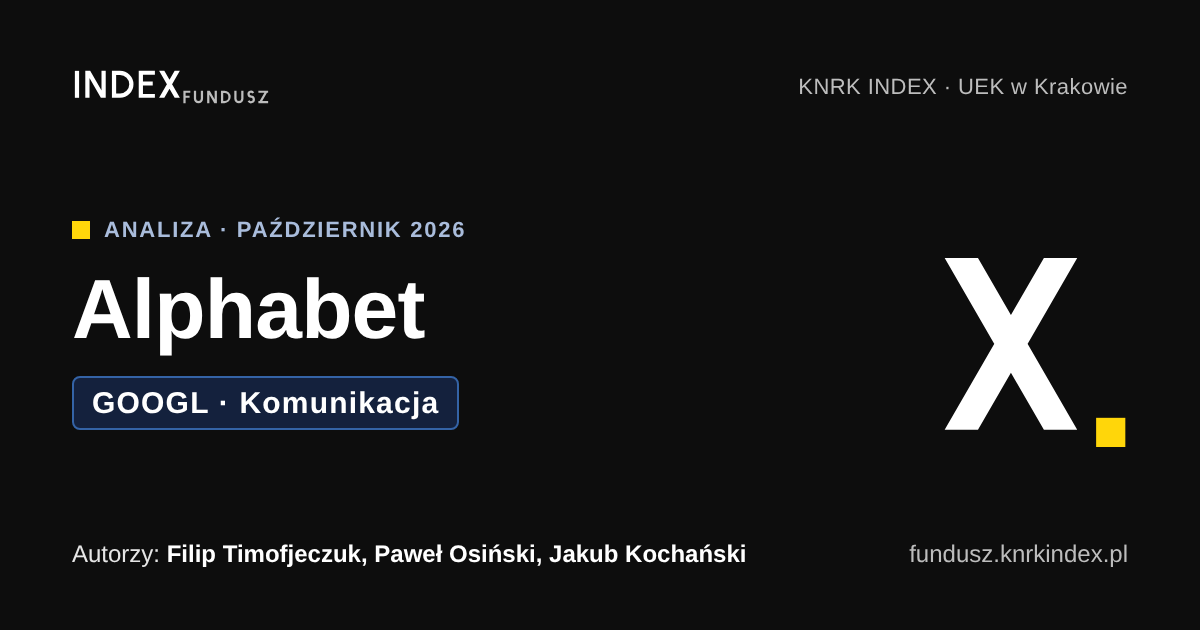
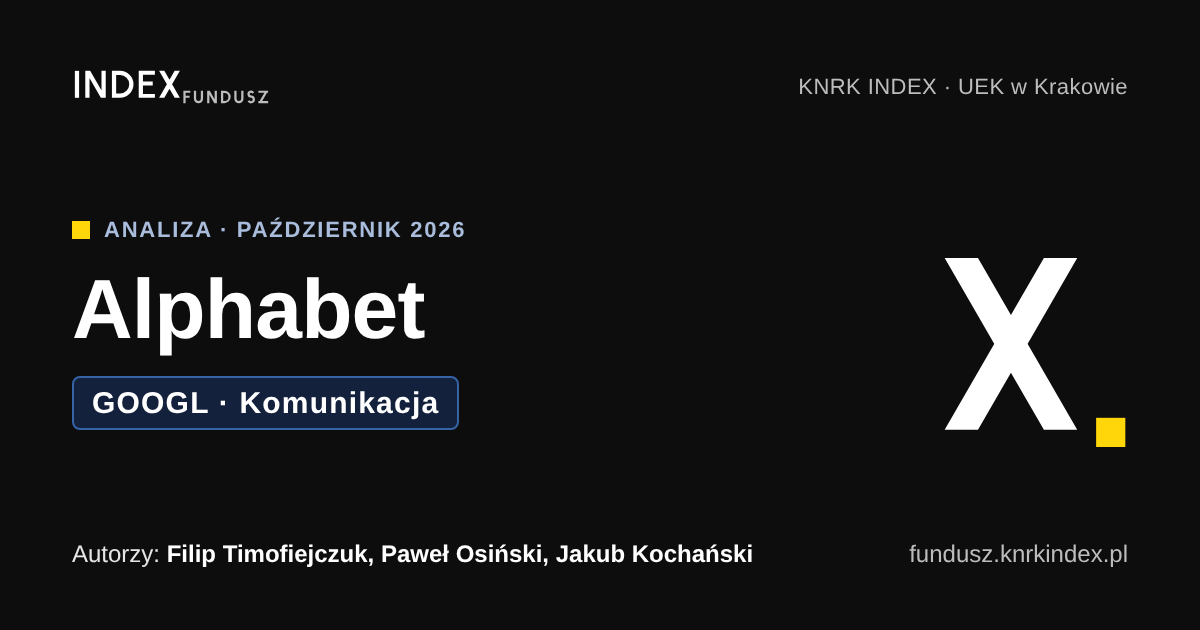
Poprawka nazwiska: Filip Timofiejczuk
Claude-Session: https://claude.ai/code/session_01GJk3onLjiow6J3TLgBbiHk

Changed region(s): [[0.2467, 0.8444, 0.6475, 0.9048]]

diff --git a/o-funduszu.html b/o-funduszu.html
@@ -94,7 +94,7 @@
 <div class="person"><span class="avatar" aria-hidden="true">MB</span><b class="small">Mikołaj Bujacz</b></div>
 <div class="person"><span class="avatar" aria-hidden="true">PO</span><b class="small">Paweł Osiński</b></div></div></div></div>
 <div class="org-team"><span class="vline" aria-hidden="true" style="height:24px"></span><div class="card"><span class="label">LinkedIn i media</span><div class="people">
-<div class="person"><span class="avatar" aria-hidden="true">FT</span><b class="small">Filip Timofjeczuk</b></div></div></div></div>
+<div class="person"><span class="avatar" aria-hidden="true">FT</span><b class="small">Filip Timofiejczuk</b></div></div></div></div>
 </div>
 </div></div>
 </section>
@@ -108,7 +108,7 @@
 <li class="person"><span class="avatar" aria-hidden="true">MB</span><b class="small">Mikołaj Bujacz</b><span class="tiny muted">Energia, ropa i gaz</span></li>
 <li class="person"><span class="avatar" aria-hidden="true">HK</span><b class="small">Hubert Kamiński</b><span class="tiny muted">Energia, ropa i gaz</span></li>
 <li class="person"><span class="avatar" aria-hidden="true">KZ</span><b class="small">Kacper Ziętek</b><span class="tiny muted">Energia, ropa i gaz</span></li>
-<li class="person"><span class="avatar" aria-hidden="true">FT</span><b class="small">Filip Timofjeczuk</b><span class="tiny muted">Komunikacja, usługi internetowe</span></li>
+<li class="person"><span class="avatar" aria-hidden="true">FT</span><b class="small">Filip Timofiejczuk</b><span class="tiny muted">Komunikacja, usługi internetowe</span></li>
 <li class="person"><span class="avatar" aria-hidden="true">PO</span><b class="small">Paweł Osiński</b><span class="tiny muted">Komunikacja, usługi internetowe</span></li>
 <li class="person"><span class="avatar" aria-hidden="true">JK</span><b class="small">Jakub Kochański</b><span class="tiny muted">Komunikacja, usługi internetowe</span></li>
 <li class="person"><span class="avatar" aria-hidden="true">MB</span><b class="small">Michał Bożek</b><span class="tiny muted">Przemysł, instalacje</span></li>

diff --git a/index.html b/index.html
@@ -97,7 +97,7 @@
 <div class="section-head"><h2>Ostatnie analizy</h2><a href="analizy.html" style="font-weight:700;padding:10px 0">Wszystkie analizy</a></div>
 <div class="grid-auto">
 <a class="card card-link" href="analizy/wmb.html"><span class="tiny muted">Energia · październik 2026 · w portfelu</span><strong style="font-size:18px">Williams Companies (WMB)</strong><span class="small" style="color:var(--ink-2)">Szymon Jakubowski, Wojciech Łopatecki, Mikołaj Małek</span></a>
-<a class="card card-link" href="analizy/googl.html"><span class="tiny muted">Komunikacja · październik 2026 · w portfelu</span><strong style="font-size:18px">Alphabet (GOOGL)</strong><span class="small" style="color:var(--ink-2)">Filip Timofjeczuk, Paweł Osiński, Jakub Kochański</span></a>
+<a class="card card-link" href="analizy/googl.html"><span class="tiny muted">Komunikacja · październik 2026 · w portfelu</span><strong style="font-size:18px">Alphabet (GOOGL)</strong><span class="small" style="color:var(--ink-2)">Filip Timofiejczuk, Paweł Osiński, Jakub Kochański</span></a>
 <a class="card card-link" href="analizy/cvx.html"><span class="tiny muted">Energia · październik 2026 · w portfelu</span><strong style="font-size:18px">Chevron (CVX)</strong><span class="small" style="color:var(--ink-2)">Mikołaj Bujacz, Hubert Kamiński, Kacper Ziętek</span></a>
 <a class="card card-link" href="analizy/eme.html"><span class="tiny muted">Przemysł · październik 2026 · w portfelu</span><strong style="font-size:18px">EMCOR (EME)</strong><span class="small" style="color:var(--ink-2)">Michał Bożek, Krzysztof Paś</span></a>
 <a class="card card-link" href="analizy/amd.html"><span class="tiny muted">Technologia · październik 2026 · w portfelu</span><strong style="font-size:18px">Advanced Micro Devices (AMD)</strong><span class="small" style="color:var(--ink-2)">Radosław Bobeł, Mikołaj Madejczyk</span></a>

diff --git a/analizy/googl.html b/analizy/googl.html
@@ -58,7 +58,7 @@
 <div class="side card" style="padding:0;overflow:hidden;gap:0">
 <div class="panel" style="border-radius:0;padding:16px 20px"><span class="label" style="color:var(--inv-muted)">Metryczka analizy</span></div>
 <dl class="kv" style="padding:4px 20px 12px">
-<dt>Autorzy</dt><dd>Filip Timofjeczuk, Paweł Osiński, Jakub Kochański</dd>
+<dt>Autorzy</dt><dd>Filip Timofiejczuk, Paweł Osiński, Jakub Kochański</dd>
 <dt>Data</dt><dd>październik 2026</dd>
 <dt>Kursy z dnia</dt><dd>16.10.2026</dd>
 <dt>Metody</dt><dd>DCF, porównawcza</dd>
@@ -106,7 +106,7 @@
 <section id="ujawnienia" class="section small" aria-label="Ujawnienia" style="border-top:1px solid var(--line);padding-top:24px;color:var(--ink-2);max-width:820px;gap:10px">
 <h2 style="font-size:18px;color:var(--ink)">Ujawnienia</h2>
 <dl class="kv kv-disclosure">
-<dt>Autorzy i funkcje</dt><dd>Filip Timofjeczuk, Paweł Osiński, Jakub Kochański, analitycy Funduszu Index</dd>
+<dt>Autorzy i funkcje</dt><dd>Filip Timofiejczuk, Paweł Osiński, Jakub Kochański, analitycy Funduszu Index</dd>
 <dt>Pierwsza publikacja</dt><dd>[data i godzina publikacji]</dd>
 <dt>Ceny użyte w analizie</dt><dd>Kursy zamknięcia z 16.10.2026</dd>
 <dt>Metody wyceny</dt><dd>DCF i porównanie mnożników; założenia opisane w raporcie</dd>
